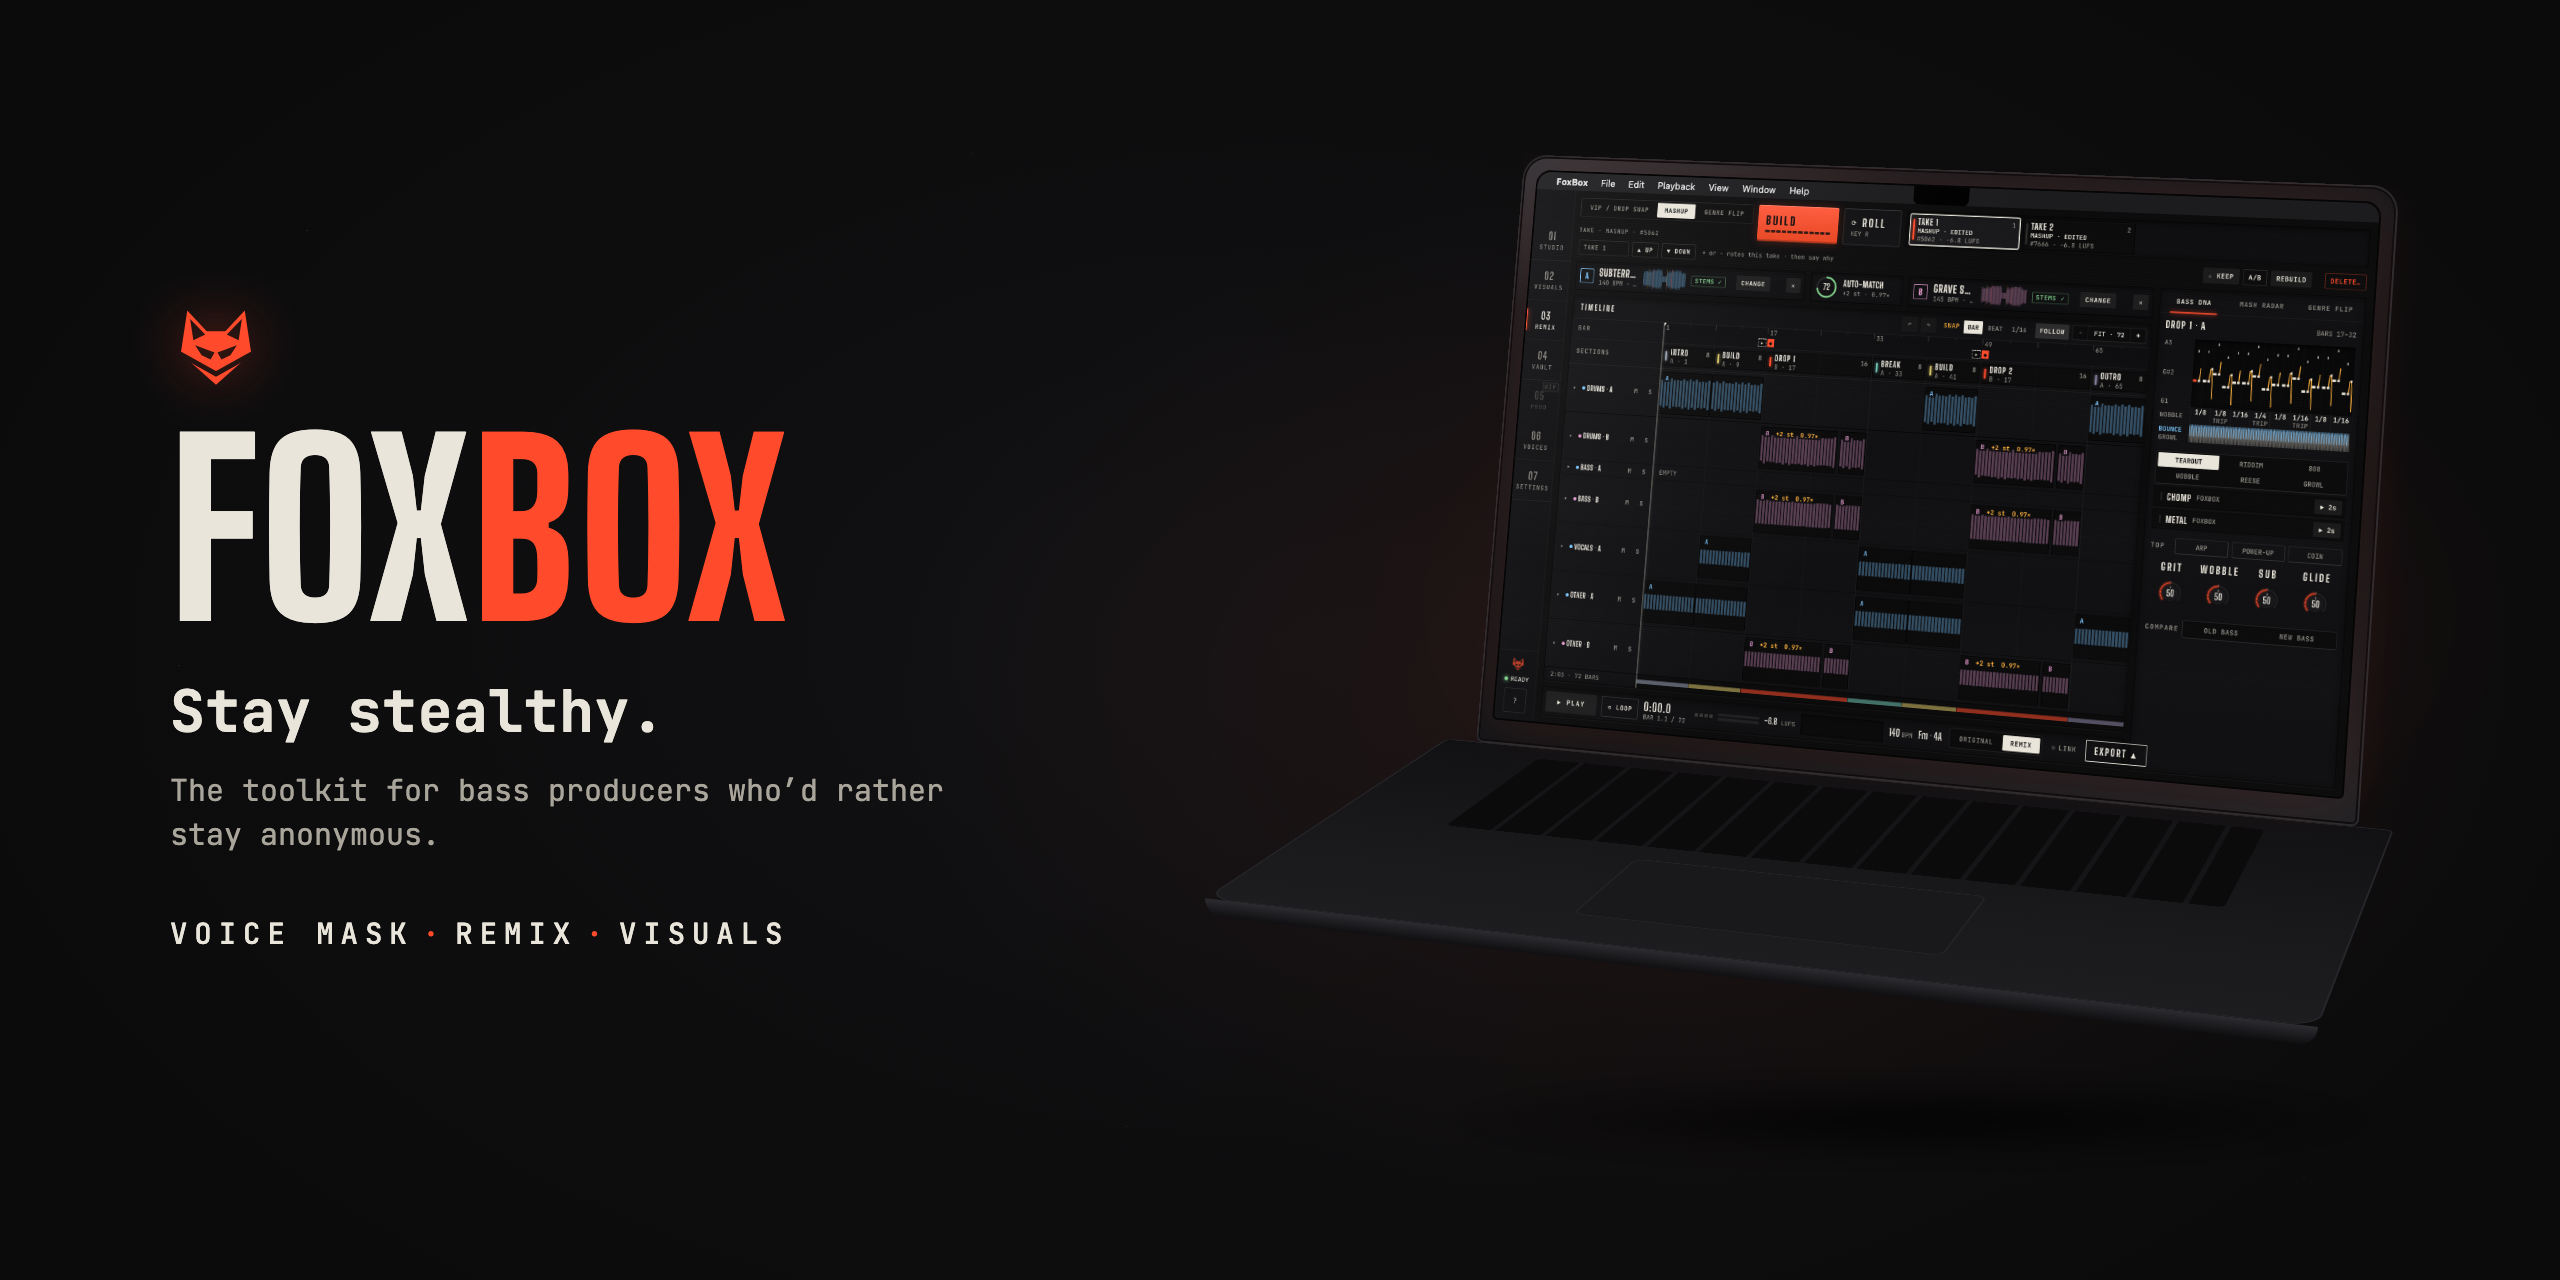
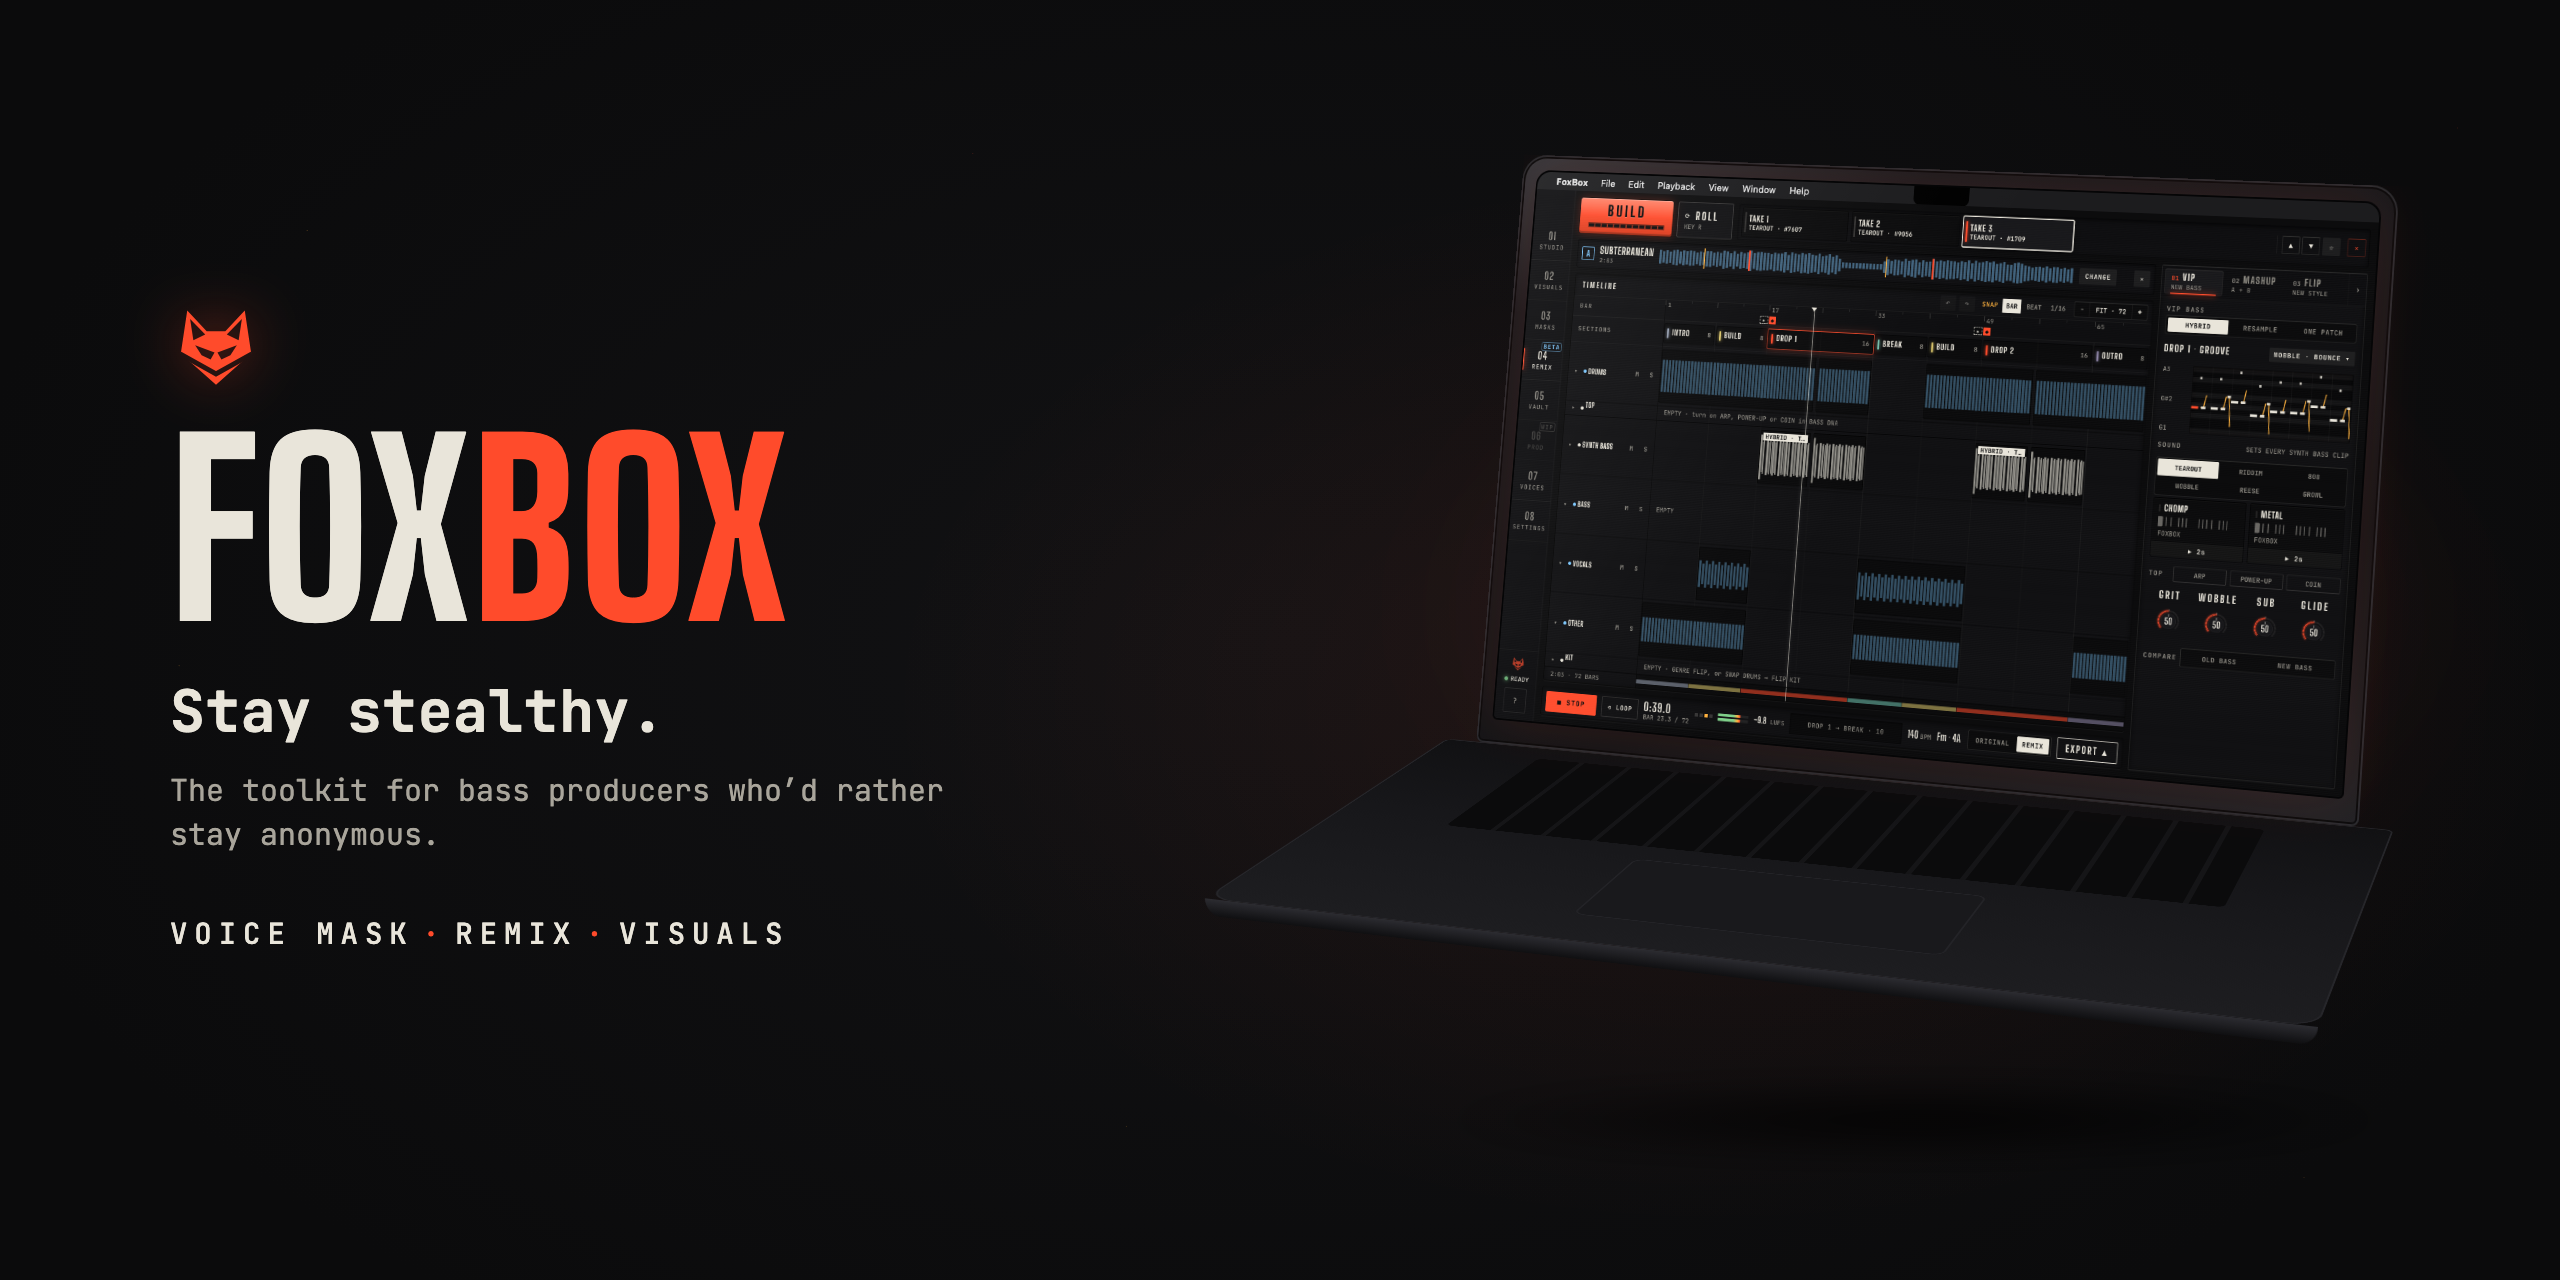
FoxBox snapshot (d433113, 2026-09-29)

Changed region(s): [[0.5938, 0.1562, 0.9375, 0.5938], [0.5938, 0.5312, 0.625, 0.5625], [0.5938, 0.375, 0.625, 0.4062]]

diff --git a/README.md b/README.md
@@ -37,8 +37,8 @@ camera. Everything runs on your Mac.
 </tr>
 <tr>
 <td valign="top"><img src="app/docs/screens/readme/01-studio.png" alt="The Studio, playing a drop on the PACT preset" width="100%"/></td>
-<td valign="top"><img src="app/docs/screens/readme/16-remix.png" alt="REMIX: a VIP take on the timeline, with BASS DNA open" width="100%"/></td>
-<td valign="top"><img src="app/docs/screens/readme/17-visuals-lowpoly.png" alt="VISUALS: the camera base with a LOW-POLY face" width="100%"/></td>
+<td valign="top"><img src="app/docs/screens/readme/16-remix.png" alt="REMIX: three takes of a VIP, playing the first drop, with BASS DNA open" width="100%"/></td>
+<td valign="top"><img src="app/docs/screens/readme/17-visuals.png" alt="VISUALS at 9:16: a Milkdrop preset over the waveform, AUTO-VJ on" width="100%"/></td>
 </tr>
 <tr>
 <td valign="top">
@@ -161,7 +161,7 @@ Remix your own tracks into bass-music edits, on your Mac. Pick a recipe, press *
 Make visuals and **promo videos for your music**, or run them live behind your set. Pick what the visuals listen to, what sits
 underneath, and stack effects on top. Every layer can react to its own **stem**.
 
-<img src="app/docs/screens/readme/11-visuals.png" alt="VISUALS: a photo base with a filter reacting to the drums and an overlay reacting to the bass" width="100%"/>
+<img src="app/docs/screens/readme/11-visuals.png" alt="VISUALS: the voice core with the feedback tunnel reacting to the bass and an RGB split reacting to the drums" width="100%"/>
 
 ### 🧠 Smart visuals <sup>new in 1.5</sup>
 
@@ -172,7 +172,7 @@ underneath, and stack effects on top. Every layer can react to its own **stem**.
 - **TEXT:** your lyrics or drop line decrypt, slam and shatter on the drop. MILKDROP cuts on the drop too.
 - **Safe flashes:** strobing is held to 3 flashes a second (WCAG 2.3.1).
 
-<img src="app/docs/screens/readme/14-visuals-auto.png" alt="VISUALS at 9:16 mid-drop: AUTO-VJ on, a TEXT SLAM layer over the feedback tunnel" width="100%"/>
+<img src="app/docs/screens/readme/14-visuals-auto.png" alt="VISUALS at 9:16 mid-drop: AUTO-VJ on, beat rings and the feedback tunnel over the waveform" width="100%"/>
 
 | | |
 |---|---|
@@ -207,6 +207,14 @@ With the camera as the base, your face is always covered, on the Mac, before any
 
 Lean in or reach out and you break through the effects on top, with the mask still on. It all runs on MediaPipe's face and
 hand tracking on your Mac; nothing is uploaded.
+
+### 🎭 MASKS <sup>new in 1.5.1</sup>
+
+A character creator for your mask. Start from one of eight masks in the **LINEUP**, then swap any part: the shell, eyes,
+mouth and jaw, ears and horns, material, colours, pattern, glow and effects. **RANDOMIZE** rolls every part you haven't
+locked. Try it on the head model or on your camera, save it to **MY MASKS**, and **WEAR** it in VISUALS.
+
+<img src="app/docs/screens/readme/18-masks.png" alt="MASKS: the LINEUP of eight starting masks, with SUBWOOFER open on the head model" width="100%"/>
 
 ### 📹 SAVE CLIP
 
